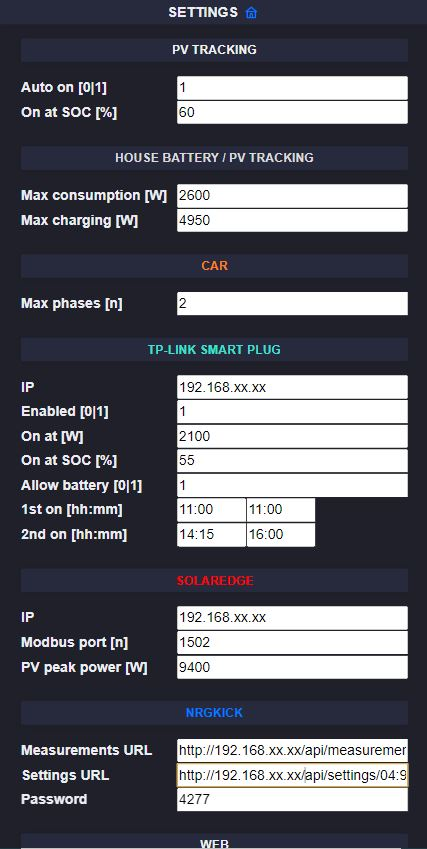
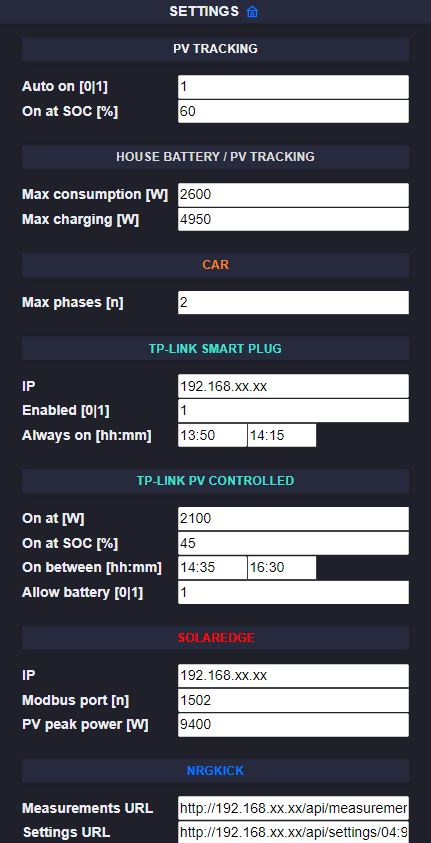
Always on feature and refactoring
Add an always on feature based on a time interval. Refactor handling for static variables.

diff --git a/templates/settings.html b/templates/settings.html
@@ -30,10 +30,10 @@
 		authenticationenabled = document.forms["settingsForm"]["authenticationenabled"].valueAsNumber;
 		plugip = document.forms["settingsForm"]["plugip"].value;
 		plugonpower = document.forms["settingsForm"]["plugonpower"].valueAsNumber;
-		firstPlugstartFrom = document.forms["settingsForm"]["firstPlugstartFrom"].value;
-		firstPlugstartTo = document.forms["settingsForm"]["firstPlugstartTo"].value;
-		secondPlugstartFrom = document.forms["settingsForm"]["secondPlugstartFrom"].value;
-		secondPlugstartTo = document.forms["settingsForm"]["secondPlugstartTo"].value;
+		pvPlugstartFrom = document.forms["settingsForm"]["pvPlugstartFrom"].value;
+		pvPlugstartTo = document.forms["settingsForm"]["pvPlugstartTo"].value;
+		alwaysPlugstartFrom = document.forms["settingsForm"]["alwaysPlugstartFrom"].value;
+		alwaysPlugstartTo = document.forms["settingsForm"]["alwaysPlugstartTo"].value;
 		plugenabled = document.forms["settingsForm"]["plugEnabled"].valueAsNumber;
 		plugstartfromsoc = document.forms["settingsForm"]["plugstartFromSOC"].valueAsNumber;
 		allowPlugUseBattery = document.forms["settingsForm"]["allowPlugUseBattery"].valueAsNumber;
@@ -99,24 +99,24 @@
 			document.getElementById('plugip').style.borderColor = "red";
 			validationError = true
 		}
-		if (Number.isInteger(plugonpower) == false || (plugonpower > 3900 || plugonpower < 500)) {
+		if (Number.isInteger(plugonpower) == false || (plugonpower > 3900 || plugonpower < 0)) {
 			document.getElementById('plugonpower').style.borderColor = "red";
 			validationError = true
 		}
-		if (validateTime(firstPlugstartFrom) == false) {
-			document.getElementById('firstPlugstartFrom').style.borderColor = "red";
+		if (validateTime(pvPlugstartFrom) == false) {
+			document.getElementById('pvPlugstartFrom').style.borderColor = "red";
 			validationError = true
 		}
-		if (validateTime(firstPlugstartTo) == false) {
-			document.getElementById('firstPlugstartTo').style.borderColor = "red";
+		if (validateTime(pvPlugstartTo) == false) {
+			document.getElementById('pvPlugstartTo').style.borderColor = "red";
 			validationError = true
 		}
-		if (validateTime(secondPlugstartFrom) == false) {
-			document.getElementById('secondPlugstartFrom').style.borderColor = "red";
+		if (validateTime(alwaysPlugstartFrom) == false) {
+			document.getElementById('alwaysPlugstartFrom').style.borderColor = "red";
 			validationError = true
 		}
-		if (validateTime(secondPlugstartTo) == false) {
-			document.getElementById('secondPlugstartTo').style.borderColor = "red";
+		if (validateTime(alwaysPlugstartTo) == false) {
+			document.getElementById('alwaysPlugstartTo').style.borderColor = "red";
 			validationError = true
 		}
 		if (Number.isInteger(plugstartfromsoc) == false || (plugstartfromsoc < 0 || plugstartfromsoc > 100)) {
@@ -208,6 +208,13 @@
 			<td><input type="number" id="plugEnabled" name="plugEnabled" value="{{settings['plugEnabled']}}" style="width: 100%"></td>
 		  </tr>
 		  <tr>
+			<td>Always on [hh:mm]</td>
+			<td><input type="text" id="alwaysPlugstartFrom" name="alwaysPlugstartFrom" value="{{settings['alwaysPlugstartFrom']}}" style="width: 30%"><input type="text" id="alwaysPlugstartTo" name="alwaysPlugstartTo" value="{{settings['alwaysPlugstartTo']}}" style="width: 30%"></td>
+		  </tr>
+		  <tr>
+			<td colspan="2"><br><center><h3 class="card" style="color:#40E0D0">TP-LINK PV CONTROLLED</h3></center></td>
+		  </tr>
+		  <tr>
 			<td>On at [W]</td>
 			<td><input type="number" id="plugonpower" name="plugonpower" value="{{settings['plugonpower']}}" style="width: 100%"></td>
 		  </tr>
@@ -216,16 +223,12 @@
 			<td><input type="number" id="plugstartFromSOC" name="plugstartFromSOC" value="{{settings['plugstartFromSOC']}}" style="width: 100%"></td>
 		  </tr>
 		  <tr>
+			<td>On between [hh:mm]</td>
+			<td><input type="text" id="pvPlugstartFrom" name="pvPlugstartFrom" value="{{settings['pvPlugstartFrom']}}" style="width: 30%"><input type="text" id="pvPlugstartTo" name="pvPlugstartTo" value="{{settings['pvPlugstartTo']}}" style="width: 30%"></td>
+		  </tr>
+		  <tr>
 			<td>Allow battery [0|1]</td>
 			<td><input type="number" id="allowPlugUseBattery" name="allowPlugUseBattery" value="{{settings['allowPlugUseBattery']}}" style="width: 100%"></td>
-		  </tr>
-		  <tr>
-			<td>1st on [hh:mm]</td>
-			<td><input type="text" id="firstPlugstartFrom" name="firstPlugstartFrom" value="{{settings['firstPlugstartFrom']}}" style="width: 30%"><input type="text" id="firstPlugstartTo" name="firstPlugstartTo" value="{{settings['firstPlugstartTo']}}" style="width: 30%"></td>
-		  </tr>
-		  <tr>
-			<td>2nd on [hh:mm]</td>
-			<td><input type="text" id="secondPlugstartFrom" name="secondPlugstartFrom" value="{{settings['secondPlugstartFrom']}}" style="width: 30%"><input type="text" id="secondPlugstartTo" name="secondPlugstartTo" value="{{settings['secondPlugstartTo']}}" style="width: 30%"></td>
 		  </tr>
 		  <tr>
 			<td colspan="2"><br><center><h3 class="card" style="color:red">SOLAREDGE</h3></center></td>

diff --git a/src/smartplug.py b/src/smartplug.py
@@ -23,23 +23,23 @@ log = logging.getLogger(__name__)
 
 PLUG_IP = 0
 PLUG_ON_POWER = 0
-FIRST_PLUG_START_FROM = "00:00"
-FIRST_PLUG_START_TO = "00:00"
-SECOND_PLUG_START_FROM = "00:00"
-SECOND_PLUG_START_TO = "00:00"
+PV_PLUG_START_FROM = "00:00"
+PV_PLUG_START_TO = "00:00"
+ALWAYS_PLUG_START_FROM = "00:00"
+ALWAYS_PLUG_START_TO = "00:00"
 PLUG_START_FROM_SOC = 0
 PLUG_ALLOWED_USE_HOUSE_BATTERY = 0
 PLUG_PORT = 9999
 
 def readSettings():
-    global PLUG_IP,PLUG_ON_POWER, PLUG_START_FROM_SOC, PLUG_ENABLED, FIRST_PLUG_START_FROM, FIRST_PLUG_START_TO, SECOND_PLUG_START_FROM, SECOND_PLUG_START_TO, PLUG_ALLOWED_USE_HOUSE_BATTERY
+    global PLUG_IP,PLUG_ON_POWER, PLUG_START_FROM_SOC, PLUG_ENABLED, PV_PLUG_START_FROM, PV_PLUG_START_TO, ALWAYS_PLUG_START_FROM, ALWAYS_PLUG_START_TO, PLUG_ALLOWED_USE_HOUSE_BATTERY
     if (chargemanagercommon.SMARTPLUG_SETTINGS_DIRTY == True):
         PLUG_IP = chargemanagercommon.getSetting(chargemanagercommon.PLUGIP)
         PLUG_ON_POWER = int(chargemanagercommon.getSetting(chargemanagercommon.PLUGONPOWER))
-        FIRST_PLUG_START_FROM = chargemanagercommon.getSetting(chargemanagercommon.FIRSTPLUGSTARTFROM)
-        FIRST_PLUG_START_TO = chargemanagercommon.getSetting(chargemanagercommon.FIRSTPLUGSTARTTO)
-        SECOND_PLUG_START_FROM = chargemanagercommon.getSetting(chargemanagercommon.SECONDPLUGSTARTFROM)
-        SECOND_PLUG_START_TO = chargemanagercommon.getSetting(chargemanagercommon.SECONDPLUGSTARTTO)
+        PV_PLUG_START_FROM = chargemanagercommon.getSetting(chargemanagercommon.PVPLUGSTARTFROM)
+        PV_PLUG_START_TO = chargemanagercommon.getSetting(chargemanagercommon.PVPLUGSTARTTO)
+        ALWAYS_PLUG_START_FROM = chargemanagercommon.getSetting(chargemanagercommon.ALWAYSPLUGSTARTFROM)
+        ALWAYS_PLUG_START_TO = chargemanagercommon.getSetting(chargemanagercommon.ALWAYSPLUGSTARTTO)
         PLUG_START_FROM_SOC = int(chargemanagercommon.getSetting(chargemanagercommon.PLUGSTARTFROMSOC))
         PLUG_ENABLED = int(chargemanagercommon.getSetting(chargemanagercommon.PLUGENABLED))
         PLUG_ALLOWED_USE_HOUSE_BATTERY = int(chargemanagercommon.getSetting(chargemanagercommon.ALLOWPLUGUSEHOUSEBATTERY))
@@ -62,9 +62,9 @@ def isNowBetweenTimes(fromTime,toTime):
         return False
 
 def isPowerOnNowAllowed():
-    if (isNowBetweenTimes(FIRST_PLUG_START_FROM,FIRST_PLUG_START_TO) == True):
+    if (isNowBetweenTimes(PV_PLUG_START_FROM,PV_PLUG_START_TO) == True):
         return True
-    elif (isNowBetweenTimes(SECOND_PLUG_START_FROM,SECOND_PLUG_START_TO) == True):
+    elif (isNowBetweenTimes(ALWAYS_PLUG_START_FROM,ALWAYS_PLUG_START_TO) == True):
         return True
     return False
 
@@ -214,7 +214,7 @@ def main():
                 # check if nrgkick is charging
                 if (nrgKickPower > 0):
                     # check if there is not enough available power during charging and TRACKED chargeMode is on
-                    if (lastPowerState == False and availablePower < PLUG_ON_POWER and chargeMode == chargemanagercommon.TRACKED_MODE):
+                    if (lastPowerState == False and availablePower < PLUG_ON_POWER and chargeMode == chargemanagercommon.TRACKED_MODE and noPlugConsumption == False):
                         # set to SLOW to give smartPlug more available power
                         chargemanagercommon.setChargemode(chargemanagercommon.SLOW_MODE)
                         setFromTrackedToSlowMode = True
@@ -234,17 +234,25 @@ def main():
                     powerOn = False
                     time.sleep(30)
                     continue
-
+                
+                # check if plugPowerOn threshold is zero, than ignore this parameter
+                ignorePlugPower = False
+                if (PLUG_ON_POWER == 0):
+                    ignorePlugPower = True
+                
                 try:
                     # we have enough free PV power... start charging based on given time-window and min SOC
-                    if (soc > PLUG_START_FROM_SOC and int(availablePower + actualPlugPower) > PLUG_ON_POWER):
+                    if (soc > PLUG_START_FROM_SOC and (int(availablePower + actualPlugPower) > PLUG_ON_POWER) or ignorePlugPower):
                         powerOn = True
                         log.debug("Normal power on! availablePower:" + str(availablePower) + " plugPower: " + str(actualPlugPower))
                     # battery is full but PV power is not enought now... allow using house battery with max 55% Watt consumption and in given time windows
-                    elif (int(soc) >= ALLOW_CHARGE_FROM_BATTERY_SOC and int(availablePower + actualPlugPower) > (PLUG_ON_POWER * -0.55) and PLUG_ALLOWED_USE_HOUSE_BATTERY == 1):
+                    elif (int(soc) >= ALLOW_CHARGE_FROM_BATTERY_SOC and (int(availablePower + actualPlugPower) > (PLUG_ON_POWER * -0.55) or ignorePlugPower) and PLUG_ALLOWED_USE_HOUSE_BATTERY == 1):
                         powerOn = True
                         ALLOW_CHARGE_FROM_BATTERY_SOC = 94
                         log.debug("Charge from battery power on! availablePower:" + str(availablePower) + " plugPower: " + str(actualPlugPower))
+                    elif (isNowBetweenTimes(ALWAYS_PLUG_START_FROM,ALWAYS_PLUG_START_TO) == True):
+                        powerOn = True
+                        log.debug("Power on, because always interval occurred! availablePower:" + str(availablePower) + " plugPower: " + str(actualPlugPower))
                     else:
                         powerOn = False
                         ALLOW_CHARGE_FROM_BATTERY_SOC = 99

diff --git a/src/chargemanagercommon.py b/src/chargemanagercommon.py
@@ -32,10 +32,10 @@ SECRETKEY = 'secretkey'
 AUTHENTICATIONENABLED = 'authenticationenabled' 
 PLUGIP = 'plugip' 
 PLUGONPOWER = 'plugonpower'  
-FIRSTPLUGSTARTFROM ='firstPlugstartFrom'
-FIRSTPLUGSTARTTO ='firstPlugstartTo'
-SECONDPLUGSTARTFROM ='secondPlugstartFrom'
-SECONDPLUGSTARTTO ='secondPlugstartTo'
+PVPLUGSTARTFROM ='pvPlugstartFrom'
+PVPLUGSTARTTO ='pvPlugstartTo'
+ALWAYSPLUGSTARTFROM ='alwaysPlugstartFrom'
+ALWAYSPLUGSTARTTO ='alwaysPlugstartTo'
 PLUGSTARTFROMSOC ='plugstartFromSOC'
 PLUGENABLED ='plugEnabled'
 ALLOWPLUGUSEHOUSEBATTERY ='allowPlugUseBattery'
@@ -584,10 +584,10 @@ def initSettingsTable():
         authenticationenabled integer NOT NULL,
         plugip TEXT NOT NULL,
         plugonpower integer NOT NULL,
-        firstPlugstartFrom TEXT NOT NULL,
-        firstPlugstartTo TEXT NOT NULL,
-        secondPlugstartFrom TEXT NOT NULL,
-        secondPlugstartTo TEXT NOT NULL,
+        pvPlugstartFrom TEXT NOT NULL,
+        pvPlugstartTo TEXT NOT NULL,
+        alwaysPlugstartFrom TEXT NOT NULL,
+        alwaysPlugstartTo TEXT NOT NULL,
         plugstartFromSOC integer NOT NULL,
         plugEnabled integer NOT NULL,
         allowPlugUseBattery integer NOT NULL
@@ -620,10 +620,10 @@ def initSettingsTable():
             authenticationenabled,
             plugip,
             plugonpower,
-            firstPlugstartFrom,
-            firstPlugstartTo,
-            secondPlugstartFrom,
-            secondPlugstartTo,
+            pvPlugstartFrom,
+            pvPlugstartTo,
+            alwaysPlugstartFrom,
+            alwaysPlugstartTo,
             plugstartFromSOC,
             plugEnabled,
             allowPlugUseBattery) 

diff --git a/src/frontend.py b/src/frontend.py
@@ -180,10 +180,10 @@ def saveForm():
         data[chargemanagercommon.AUTHENTICATIONENABLED]  = request.form[chargemanagercommon.AUTHENTICATIONENABLED]
         data[chargemanagercommon.PLUGIP]  = request.form[chargemanagercommon.PLUGIP]
         data[chargemanagercommon.PLUGONPOWER ]  = request.form[chargemanagercommon.PLUGONPOWER ]
-        data[chargemanagercommon.FIRSTPLUGSTARTFROM]  = request.form[chargemanagercommon.FIRSTPLUGSTARTFROM]
-        data[chargemanagercommon.FIRSTPLUGSTARTTO]  = request.form[chargemanagercommon.FIRSTPLUGSTARTTO]
-        data[chargemanagercommon.SECONDPLUGSTARTFROM]  = request.form[chargemanagercommon.SECONDPLUGSTARTFROM]
-        data[chargemanagercommon.SECONDPLUGSTARTTO]  = request.form[chargemanagercommon.SECONDPLUGSTARTTO]
+        data[chargemanagercommon.PVPLUGSTARTFROM]  = request.form[chargemanagercommon.PVPLUGSTARTFROM]
+        data[chargemanagercommon.PVPLUGSTARTTO]  = request.form[chargemanagercommon.PVPLUGSTARTTO]
+        data[chargemanagercommon.ALWAYSPLUGSTARTFROM]  = request.form[chargemanagercommon.ALWAYSPLUGSTARTFROM]
+        data[chargemanagercommon.ALWAYSPLUGSTARTTO]  = request.form[chargemanagercommon.ALWAYSPLUGSTARTTO]
         data[chargemanagercommon.PLUGSTARTFROMSOC]  = request.form[chargemanagercommon.PLUGSTARTFROMSOC]
         data[chargemanagercommon.PLUGENABLED]  = request.form[chargemanagercommon.PLUGENABLED]
         data[chargemanagercommon.ALLOWPLUGUSEHOUSEBATTERY]  = request.form[chargemanagercommon.ALLOWPLUGUSEHOUSEBATTERY]

diff --git a/README.md b/README.md
@@ -66,18 +66,16 @@ If your NRGKICK has deactived phases (e.g. 1 of 3) the lower value will be used 
 IP of HS100 or HS110 smart plug.	
 ###### **TP-LINK SMART PLUG / Enabled [0|1]**	
 Turn it on (1) or deactivate (0).
-###### **TP-LINK SMART PLUG / Allow battery [0|1]**	
-Turn it on (1) if you want to allow house battery support if pv power is shortly gone in cloudy conditions. Battery power is only used if SOC > 94% and 55% of given "On at [W]" free pv power is left.
-###### **TP-LINK SMART PLUG / On at [W]**	
-Available "free" PV power threshold on which smart plug should switch on [Watt]
-###### **TP-LINK SMART PLUG / On at SOC [%]**	
+###### **TP-LINK SMART PLUG / Always on [hh:mm]**
+Interval where plug should turned always (independent from any thresholds) on. (set start and end to the same value if you want to disable)
+###### **TP-LINK PV CONTROLLED / On at [W]**	
+Available "free" PV power threshold on which smart plug should switch on [Watt] Max 3900 Watt), if set to 0 this threshold will be ignored.
+###### **TP-LINK PV CONTROLLED / On at SOC [%]**	
 Min SOC of house-battery when swtiching smart plug on. 
-###### **TP-LINK SMART PLUG / 1st on [hh:mm]**
-First interval where plug should turned on. (set start and end to the same value if you want to disable)
-###### **TP-LINK SMART PLUG / 2nd on [hh:mm]**
-Second interval where plug should turned on. (set start and end to the same value if you want to disable)
-###### **TP-LINK SMART PLUG / Start hour [h]**
-Earliest full hour from which smart plug should be turned on. (24h format, e.g. 13,14 or 15)
+###### **TP-LINK PV CONTROLLED / On between [hh:mm]**
+Interval where plug should turned (depending on thresholds of this section) on. (set start and end to the same value if you want to disable)
+###### **TP-LINK PV CONTROLLED / Allow battery [0|1]**	
+Turn it on (1) if you want to allow house battery support if pv power is shortly gone in cloudy conditions. Battery power is only used if SOC > 94% and 55% of given "On at [W]" free pv power is left.
 
 ###### **SOLAREDGE / IP**	
 Ip address of solaredge inverter.
